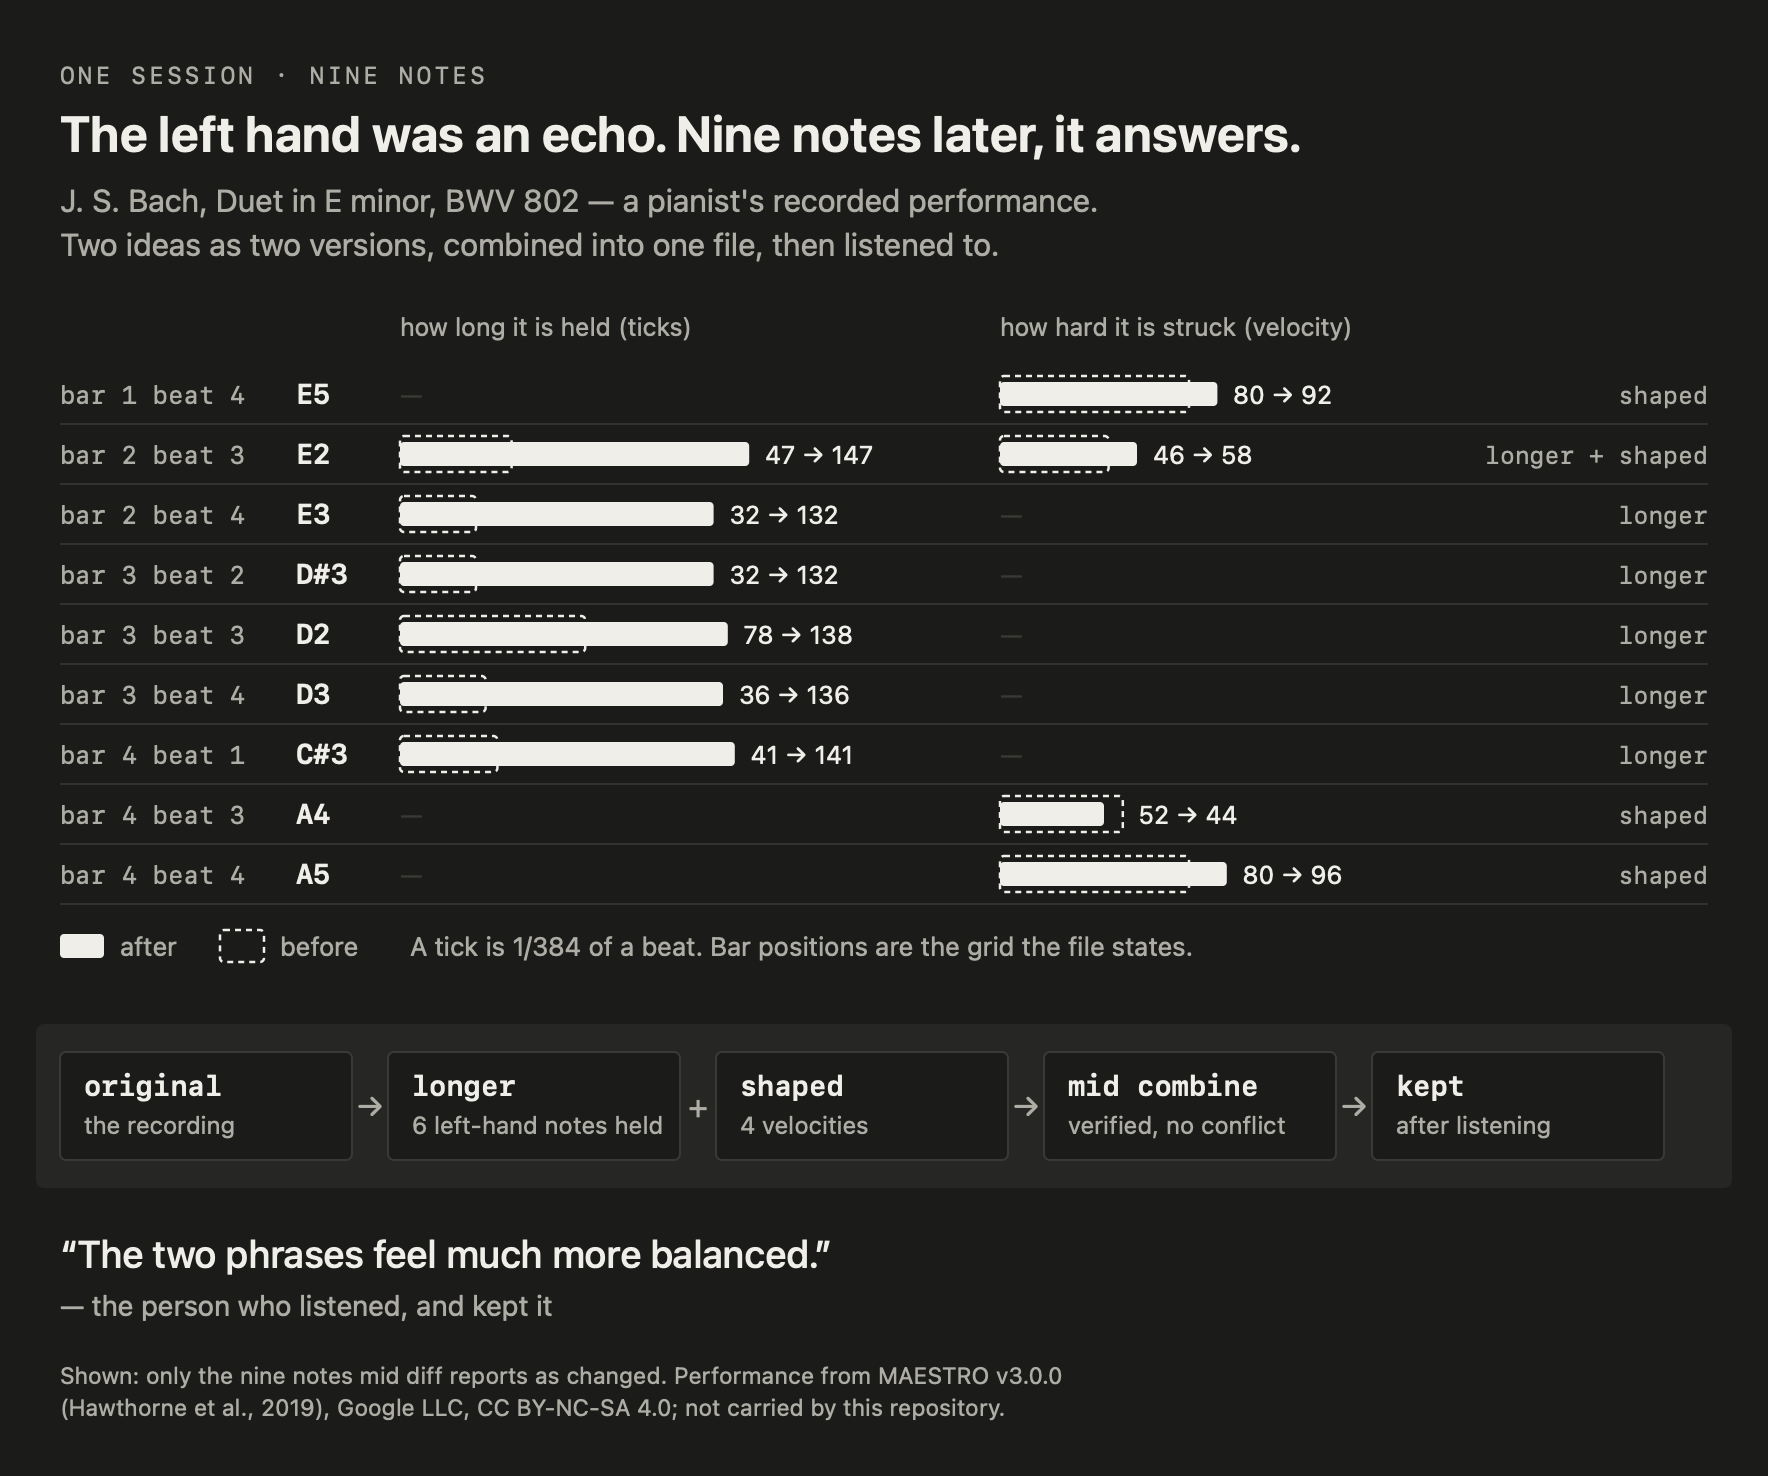
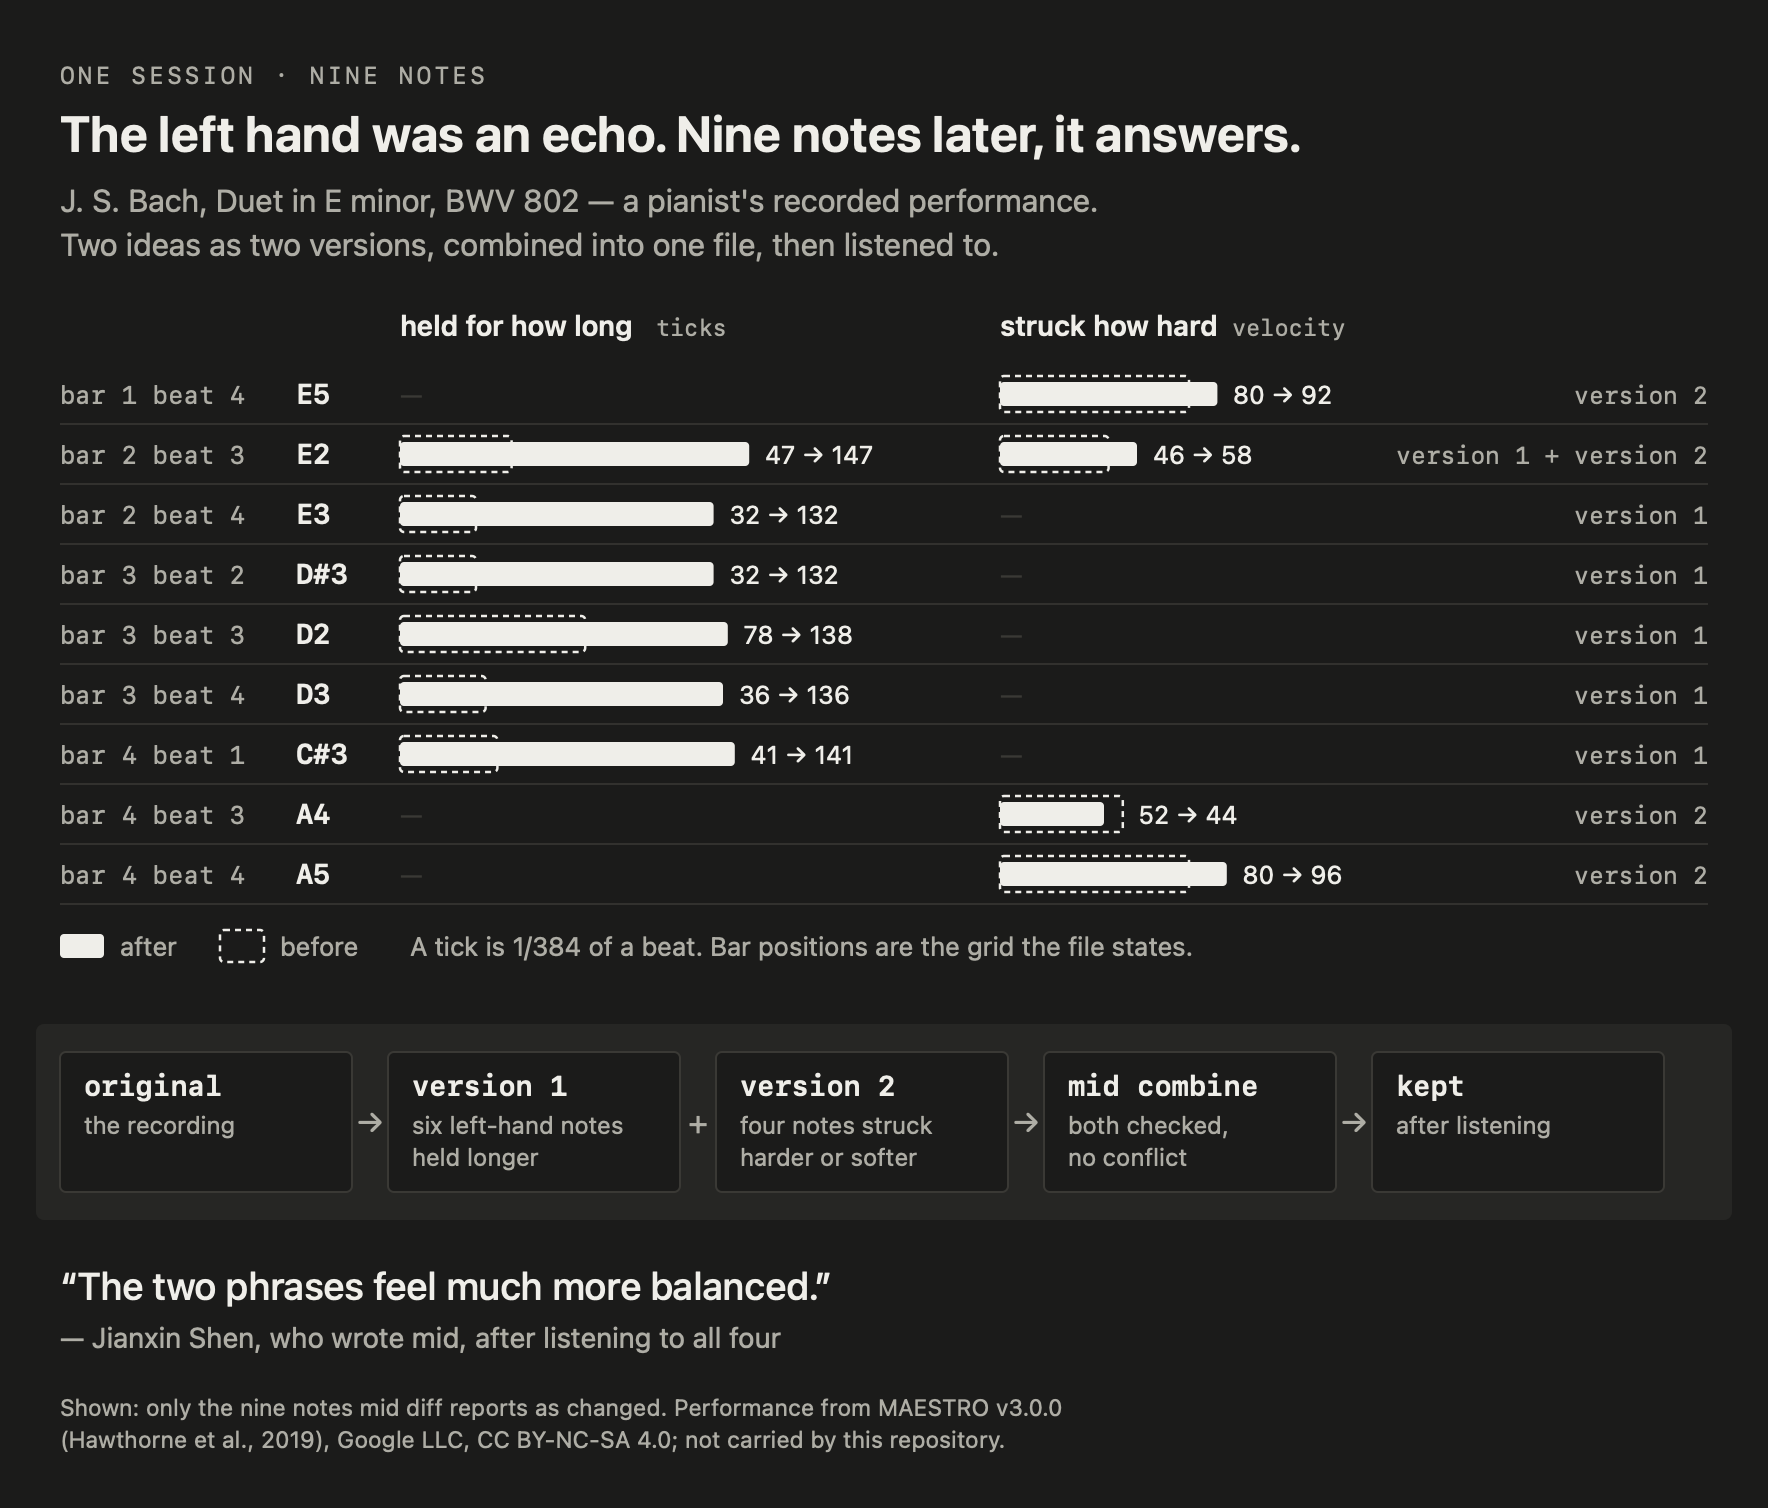
Put the session picture after the loop it illustrates
Two cold readers met the picture third, after only the title and the
tagline, and neither could read it: ticks, velocity and the two version
names meant nothing yet, nor who had done what. Both understood the loop
only at the paragraph that followed it. The picture now comes after
that paragraph and is introduced as one session, its labels lead with
plain words, and the listener is named.

The first screen also gains what a reader needs before installing, which
both readers looked for and found only as a jump link, and the places
they stopped get a gloss: a position like 3+187, a Take, a clone, and
mid play needing a Rig set up first.

diff --git a/README.md b/README.md
@@ -3,13 +3,6 @@
 **Change a MIDI file together with your AI agent (Claude Code, Codex), see
 exactly what changed, and hear the result.**
 
-<a href="https://github.com/JX-Shen/OliviaMIDI/issues/51">
-  <picture>
-    <source media="(prefers-color-scheme: dark)" srcset="https://raw.githubusercontent.com/JX-Shen/OliviaMIDI/main/docs/images/session-bwv802-dark.png">
-    <img src="https://raw.githubusercontent.com/JX-Shen/OliviaMIDI/main/docs/images/session-bwv802-light.png" width="720" alt="One session on a recorded performance of Bach's Duet BWV 802: nine notes changed. Six left-hand notes held about three times longer, for example E2 from 47 to 147 ticks, and four notes struck harder or softer. Two versions were combined by mid combine, verified with no conflict, listened to and kept: 'The two phrases feel much more balanced.'">
-  </picture>
-</a>
-
 Tell your agent *"the melody sounds flat"* or *"the bass drops out under the
 tune"*. It reads the `.mid` file note by note, makes a precise change, shows you
 a note-by-note diff, and plays the result back to you. You listen and decide. If
@@ -18,20 +11,30 @@ tells you exactly what came from where.
 
 You don't need to know any theory. *"It's too crowded here"* is a fine place to
 start: turning a reaction like that into a change you can check is the agent's
-job.
+job. Here is one real session, told [below](#what-it-looks-like):
+
+<a href="https://github.com/JX-Shen/OliviaMIDI/issues/51">
+  <picture>
+    <source media="(prefers-color-scheme: dark)" srcset="https://raw.githubusercontent.com/JX-Shen/OliviaMIDI/main/docs/images/session-bwv802-dark.png">
+    <img src="https://raw.githubusercontent.com/JX-Shen/OliviaMIDI/main/docs/images/session-bwv802-light.png" width="720" alt="One session on a recorded performance of Bach's Duet BWV 802: nine notes changed. Six left-hand notes held about three times longer, for example E2 from 47 to 147 ticks, and four notes struck harder or softer. Two versions were combined by mid combine, verified with no conflict, listened to and kept: 'The two phrases feel much more balanced.'">
+  </picture>
+</a>
+
+**What you need:** an AI agent that can run commands in a terminal, such as
+Claude Code or Codex, on macOS or Linux; [Rust](https://rustup.rs), to install
+`mid` with `cargo install battuta`; and, to hear results,
+[FluidSynth and a soundfont](#setting-up-playback). Jump to:
+[Install](#install) · [Using it with your agent](#using-it-with-your-agent).
 
 This is not an AI music generator, and nothing here composes for you. It works
 on the ordinary MIDI files already on your disk, and it is the layer underneath
 a conversation about a piece: the part that lets an agent check what is
-actually in the file, try one change, and say exactly what it did.
-
-`mid` is a command-line tool built to be driven by an agent. It installs from
-the Rust crate `battuta` and is MIT-licensed. Jump to: [Install](#install) ·
-[Using it with your agent](#using-it-with-your-agent).
+actually in the file, try one change, and say exactly what it did. `mid` is
+MIT-licensed; `battuta` is the Rust crate it comes from.
 
 ## What it looks like
 
-The picture above is one real session, from 22 October 2026. The file is a
+The picture above is a session from 22 October 2026. The file is a
 pianist's recorded performance of Bach's
 [Duet in E minor, BWV 802](https://imslp.org/wiki/Duets_BWV_802-805_(Bach,_Johann_Sebastian)).
 In the opening, the left hand's first entry was played so short that it
@@ -59,8 +62,10 @@ changed  bar 4 beat 3+173  track 1  channel 0  A4   velocity 52 -> 44
 changed  bar 4 beat 4+125  track 1  channel 0  A5   velocity 80 -> 96
 ```
 
-Nine notes, ten changes, nothing else. I listened to the original, both
-versions and the combination, and kept the combination: *听的出来，而且我确实感觉D的质感好了一些，两个语句感觉平衡了很多* ("I can hear it. The combined one has a better texture, and the two phrases
+`bar 2 beat 3+187` means bar 2, beat 3, then 187 ticks later; a beat is 384
+ticks in this file. Nine notes, ten changes, nothing else. I, Jianxin Shen, who
+wrote `mid`, listened to the original, both versions and the combination, and
+kept the combination: *听的出来，而且我确实感觉D的质感好了一些，两个语句感觉平衡了很多* ("I can hear it. The combined one has a better texture, and the two phrases
 feel much more balanced.")
 
 - **Hear a similar experiment:**
@@ -82,7 +87,8 @@ feel much more balanced.")
 
 ### Try it yourself
 
-This example runs entirely from a clone.
+This example runs entirely from a clone of this repository
+(`git clone https://github.com/JX-Shen/OliviaMIDI`).
 
 [`olivia.mid`](https://github.com/JX-Shen/OliviaMIDI/blob/main/fixtures/olivia.mid)
 is eight bars of a slow waltz in D major. Suppose two things about it bother you:
@@ -110,7 +116,8 @@ mid apply olivia.mid bass.edits.json   -o bass.mid
 You like both. Merging them by hand would mean trusting that nothing got lost,
 so `combine` does it instead. It first checks that each version really is what
 its Edit Set makes of the original, then puts both sets of changes into one
-file:
+file. (A *Take* is what `mid` calls one MIDI file; the *common Take* is the
+original both versions were made from.)
 
 ```
 $ mid combine olivia.mid --side melody.mid melody.edits.json --side bass.mid bass.edits.json -o both.mid
@@ -142,8 +149,8 @@ There are nineteen rows in all: eleven melody notes and eight bass notes, and
 nothing else. Then you listen:
 
 ```sh
-mid play both.mid              # through the soundfont you chose
-mid render both.mid -o both.wav
+mid play both.mid              # needs playback set up first: see below
+mid render both.mid -o both.wav # the same, written to a WAV file
 ```
 
 Run the commands from a clone and you get the same `both.mid`.
